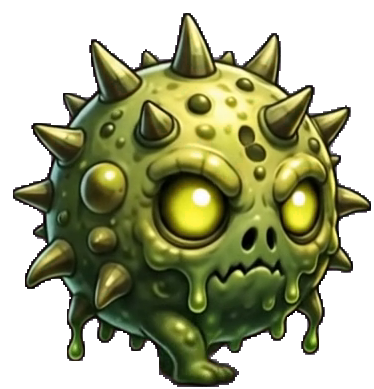
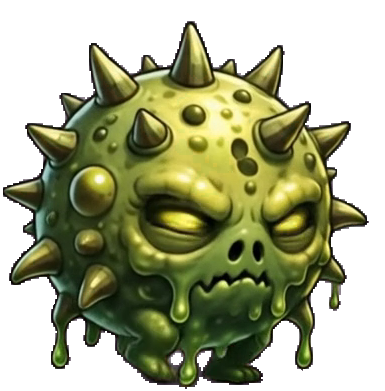
Make the Micro Mold's motion flow naturally: bounce, squash-stretch, cleaner loop
The Micro Mold is a round, spiky ball, so a feet-planted glide looked
lifeless. Its walk now BOUNCES — a hop synced to the walk cycle (two
little hops per stride) with squash-and-stretch (stretched at the apex,
squashed on landing) — so the crawl reads as springy, natural motion.

Also re-cut the walk to a clean single-loop range (frames 44-58 only; the
later frames carried a motion streak that flickered on repeat), widened
idle to 5 frames and walk to 8, and nudged the cycle rates up for
smoothness.

Selftest stays robustly green (6/6).

Claude-Session: https://claude.ai/code/session_01C7stTX2MiAL5f8VZvZr1zp

diff --git a/games/mold_mission/mold_mission.py b/games/mold_mission/mold_mission.py
@@ -119,7 +119,7 @@ ANIM_FPS = {"player": 6, "player_walk": 11, "player_run": 15, "player_dash": 18,
             "player_rundownfire": 15, "player_walkdownfire": 11,
             "player_dashfire": 18,
             # Micro Mold clips (video-cut, cycled like Ty's)
-            "micromold": 6, "micromold_run": 11, "micromold_attack": 14,
+            "micromold": 7, "micromold_run": 13, "micromold_attack": 14,
             "micromold_hurt": 12}
 DUCK_RATIO = 0.74       # a ducked pose renders this fraction of standing height
 BOSS_H = 1.34           # boss sprite height as a multiple of its collision height
@@ -1172,11 +1172,23 @@ class Enemy:
             if seq:
                 fps = ANIM_FPS.get(state, 8)
                 frame = seq[int(self.t * fps) % len(seq)]
-                breath = 1.0 + 0.04 * math.sin(self.t * 3.2 + self.x * 0.01)
+                draw_h = self.h * CHAR_H
+                feet = y + self.h
+                squash = 1.0 + 0.04 * math.sin(self.t * 3.2 + self.x * 0.01)
                 if self.hit > 0:
-                    breath *= 0.9
-                assets.blit_char(s, frame, cx, y + self.h, self.h * CHAR_H,
-                                 flip=self.vx < 0, squash=breath,
+                    squash *= 0.9
+                # A round, spiky mold doesn't glide — it BOUNCES. When it's moving,
+                # add a hop synced to the walk cycle (two little hops per stride)
+                # with squash-and-stretch: stretched at the apex, squashed as it
+                # lands. That's what makes the crawl read as natural, springy
+                # motion rather than a sprite sliding along the floor.
+                if state == k + "_run" and abs(self.vx) > 8:
+                    u = (self.t * fps / len(seq) * 2.0) % 1.0     # 2 hops / cycle
+                    lift = math.sin(math.pi * u)                  # 0 -> 1 -> 0
+                    feet -= draw_h * 0.11 * lift                  # rise off the floor
+                    squash *= 1.0 + 0.08 * (lift - 0.5)           # stretch up, squash down
+                assets.blit_char(s, frame, cx, feet, draw_h,
+                                 flip=self.vx < 0, squash=squash,
                                  ref_h=assets.enemy_ref[k])
                 return
         # apply the motion bob to EVERY draw path (sprite or vector) so a moving

diff --git a/games/mold_mission/cut_micromold.py b/games/mold_mission/cut_micromold.py
@@ -32,9 +32,10 @@ OUT = "assets"
 # state key -> (video, first_frame, last_frame, n_frames). Ranges sit inside each
 # labelled section, trimmed off the transitions so the cycle loops cleanly.
 CLIPS = {
-    "micromold":         ("V3",   8,  38, 4),   # IDLE (settle / breathe)
-    "micromold_run":     ("V3",  44,  62, 6),   # WALK cycle (natural gait; RUN adds
-    #                                             speed lines that tile badly)
+    "micromold":         ("V3",   8,  40, 5),   # IDLE (settle / breathe)
+    "micromold_run":     ("V3",  44,  58, 8),   # WALK cycle — a clean single loop
+    #                                             (44-58 only; 60+ carries a motion
+    #                                             streak that flickers on repeat)
     "micromold_attack":  ("V3", 216, 236, 4),   # BASIC ATTACK — spore burst
     "micromold_hurt":    ("V1", 170, 186, 3),   # HURT recoil
 }
